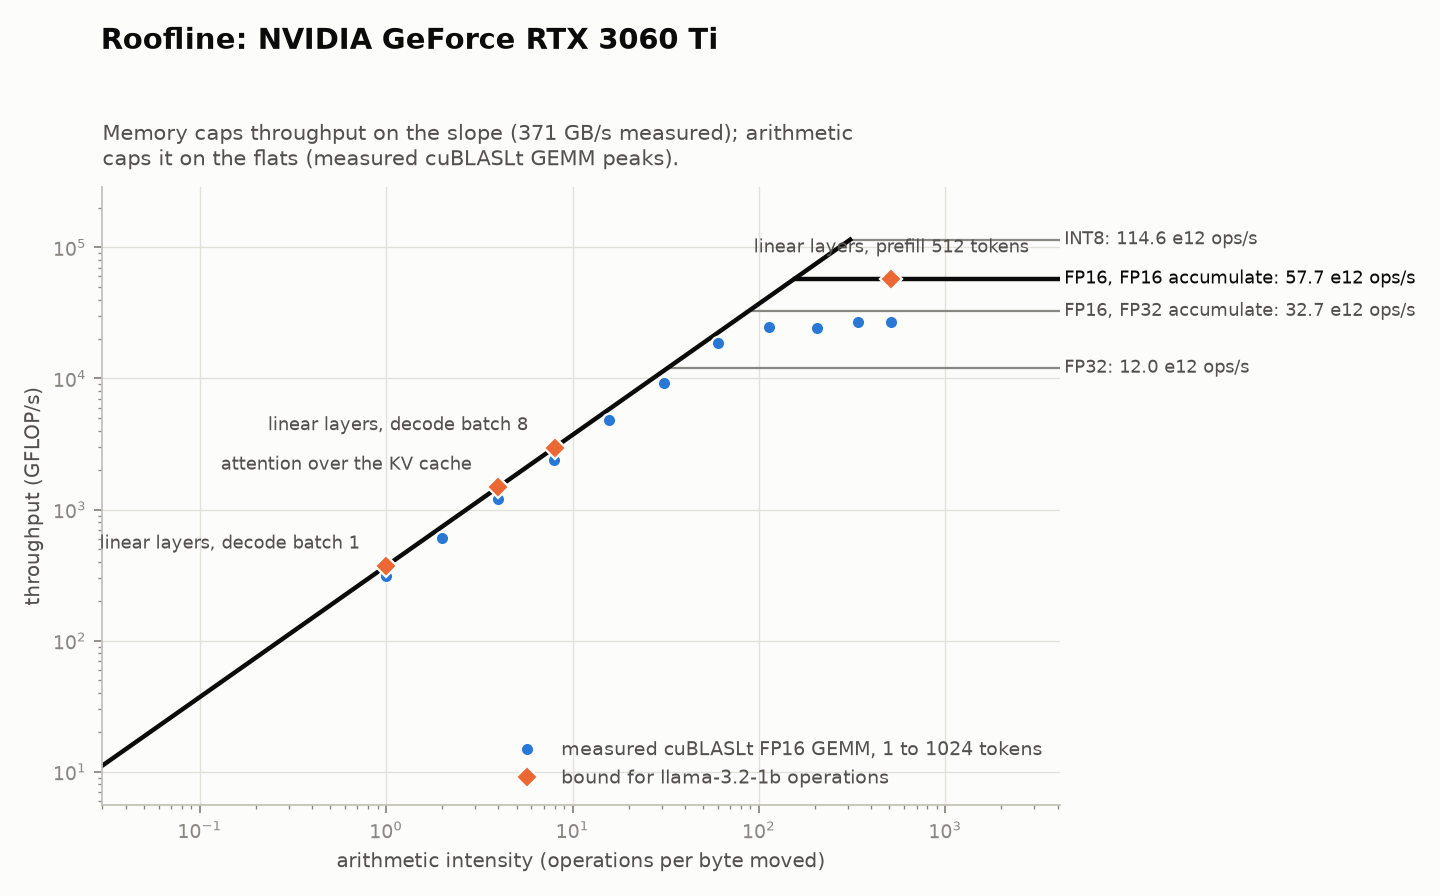
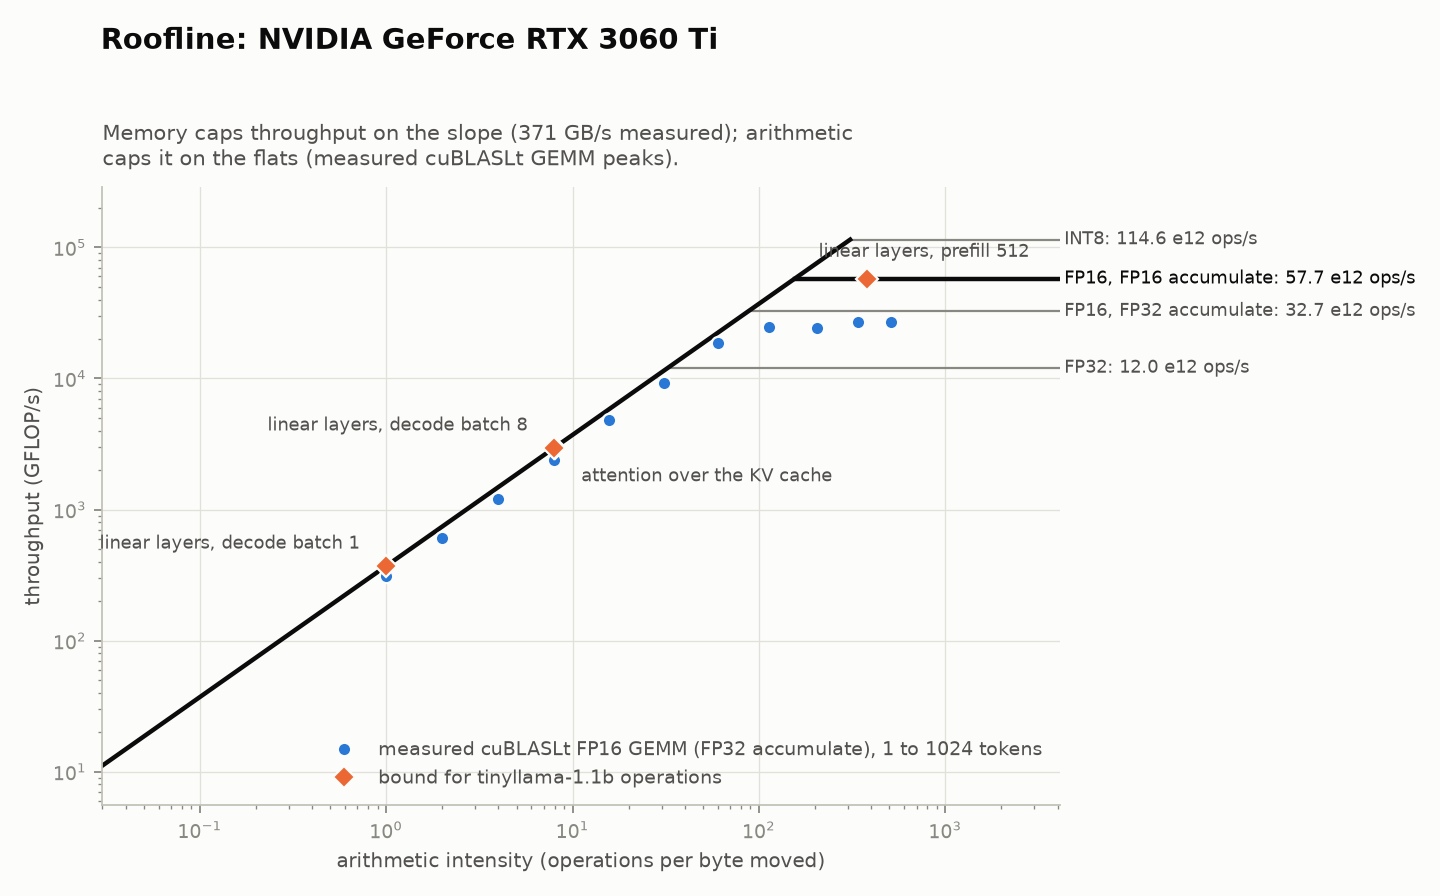
Place roofline marks from the perf model; make report honors MODEL

diff --git a/python/kvbound/report.py b/python/kvbound/report.py
@@ -18,7 +18,7 @@ from matplotlib.figure import Figure
 from kvbound.models import load_spec
 from kvbound.paths import CONFIGS, REPORTS
 from kvbound.perfmodel import hardware
-from kvbound.perfmodel.model import Arch
+from kvbound.perfmodel.model import Arch, Precision, step_costs
 
 # Chart tokens: surface, inks, and the categorical series colors in their fixed order.
 SURFACE, INK, INK_2, MUTED, GRID, AXIS = (
@@ -123,23 +123,30 @@ def roofline(
         xs.append(2 * rows * cols * point["tokens"] / moved)
         ys.append(point["best_gflops"])
     ax.plot(xs, ys, "o", ms=6, color=SERIES[0], mec=SURFACE, mew=1, zorder=3,
-            label="measured cuBLASLt FP16 GEMM, 1 to 1024 tokens")  # fmt: skip
+            label="measured cuBLASLt FP16 GEMM (FP32 accumulate), 1 to 1024 tokens")  # fmt: skip
 
-    # Where the model's operations sit on the bound.
-    marks = [
-        (1.0, "linear layers, decode batch 1"),
-        (float(arch.n_heads // arch.n_kv_heads), "attention over the KV cache"),
-        (8.0, "linear layers, decode batch 8"),
-        (512.0, "linear layers, prefill 512 tokens"),
-    ]
-    roof_top = hw.peak_tops["fp16_acc16"] * 1e3
-    mx = [mark[0] for mark in marks]
-    my = [min(mark[0] * hw.dram_gbs, roof_top) for mark in marks]
-    ax.plot(mx, my, "D", ms=7, color=SERIES[1], mec=SURFACE, mew=1, zorder=4,
-            label=f"bound for {model_name} operations")  # fmt: skip
-    for (x, text), y in zip(marks, my, strict=True):
-        on_flat = x * hw.dram_gbs > roof_top
-        note(text, (x, y), (0, 14) if on_flat else (-12, 10), "center" if on_flat else "right")
+    # Where the model's operations sit on the bound, taken from the perf model's own costs.
+    fp16 = Precision.named("fp16", "fp16")
+    marks = []
+    for label, batch, new_tokens, context, op in (
+        ("linear layers, decode batch 1", 1, 1, 1024, "gate_proj"),
+        ("attention over the KV cache", 1, 1, 1024, "attention"),
+        ("linear layers, decode batch 8", 8, 1, 1024, "gate_proj"),
+        ("linear layers, prefill 512", 1, 512, 0, "gate_proj"),
+    ):
+        costs = step_costs(arch, hw, fp16, batch, new_tokens, context)
+        cost = next(c for c in costs if c.name == op)
+        marks.append((cost.intensity, cost.ops / cost.seconds / 1e9, cost.bound_by, label))
+    ax.plot([m[0] for m in marks], [m[1] for m in marks], "D", ms=7, color=SERIES[1],
+            mec=SURFACE, mew=1, zorder=4, label=f"bound for {model_name} operations")  # fmt: skip
+    for x, y, bound_by, text in marks:
+        # Labels go left of the slope, except attention and compute-bound marks, which go right.
+        if bound_by == "compute":
+            note(text, (x, y), (-22, 12), "left")
+        elif text.startswith("attention"):
+            note(text, (x, y), (12, -13), "left")
+        else:
+            note(text, (x, y), (-12, 10), "right")
 
     ax.set_xscale("log")
     ax.set_yscale("log")
@@ -212,7 +219,7 @@ def latency(records: dict[str, dict[str, Any]]) -> Figure:
 def main() -> None:
     parser = argparse.ArgumentParser(description=__doc__)
     parser.add_argument("--device", required=True, help="name from configs/devices/")
-    parser.add_argument("--model", default="llama-3.2-1b", help="model placed on the roofline")
+    parser.add_argument("--model", required=True, help="model placed on the roofline")
     args = parser.parse_args()
 
     records = hardware.latest_records(args.device)

diff --git a/python/kvbound/perfmodel/model.py b/python/kvbound/perfmodel/model.py
@@ -73,6 +73,8 @@ class Precision:
     def named(cls, weights: str, kv: str) -> "Precision":
         # Quantization here is weight-only: INT8 and INT4 weights are converted to FP16 inside
         # the kernel and multiplied with FP16 activations, so the FP16 ceiling applies to all.
+        # The ceiling is FP16 accumulate, the faster of the two FP16 modes, so the result stays
+        # a lower bound for kernels that accumulate in FP32 at half the rate.
         weight_bytes = {"fp16": 2.0, "int8": 1.0, "int4": 0.5}
         kv_bytes = {"fp16": 2.0, "int8": 1.0, "fp8": 1.0}
         return cls(weight_bytes[weights], kv_bytes[kv], "fp16_acc16")

diff --git a/README.md b/README.md
@@ -59,7 +59,7 @@ make test-real                       # reference model vs Hugging Face on the re
 make golden MODEL=tinyllama-1.1b     # golden tensors into data/golden/ (manifest is committed)
 make bench-hf MODEL=tinyllama-1.1b   # Hugging Face baseline records
 make microbench                      # builds the cuda preset first
-make report DEVICE=rtx3060ti         # figures into reports/
+make report MODEL=tinyllama-1.1b DEVICE=rtx3060ti   # figures into reports/
 make predict MODEL=llama-3.2-1b DEVICE=rtx3060ti
 ```
 
